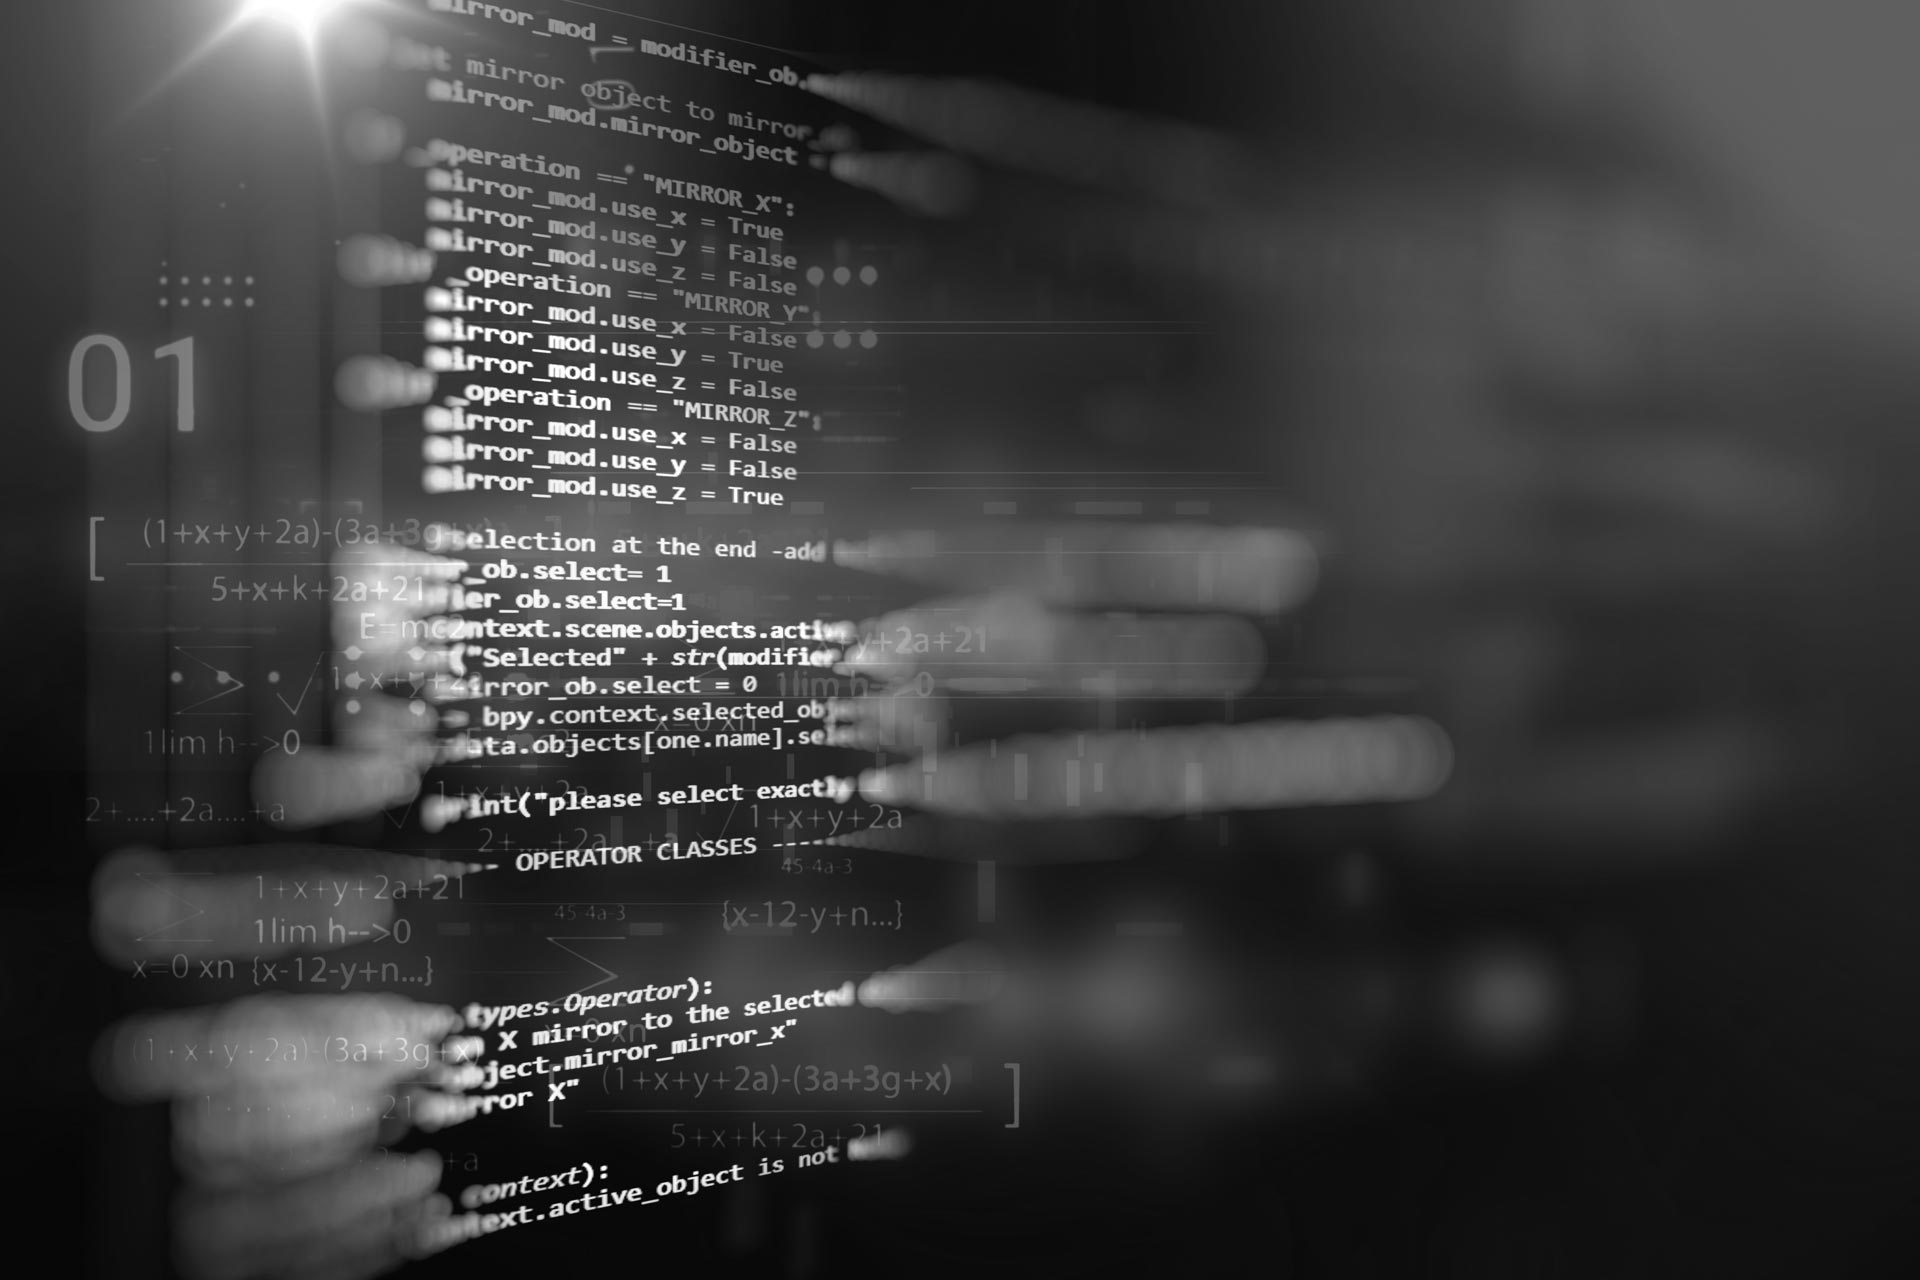
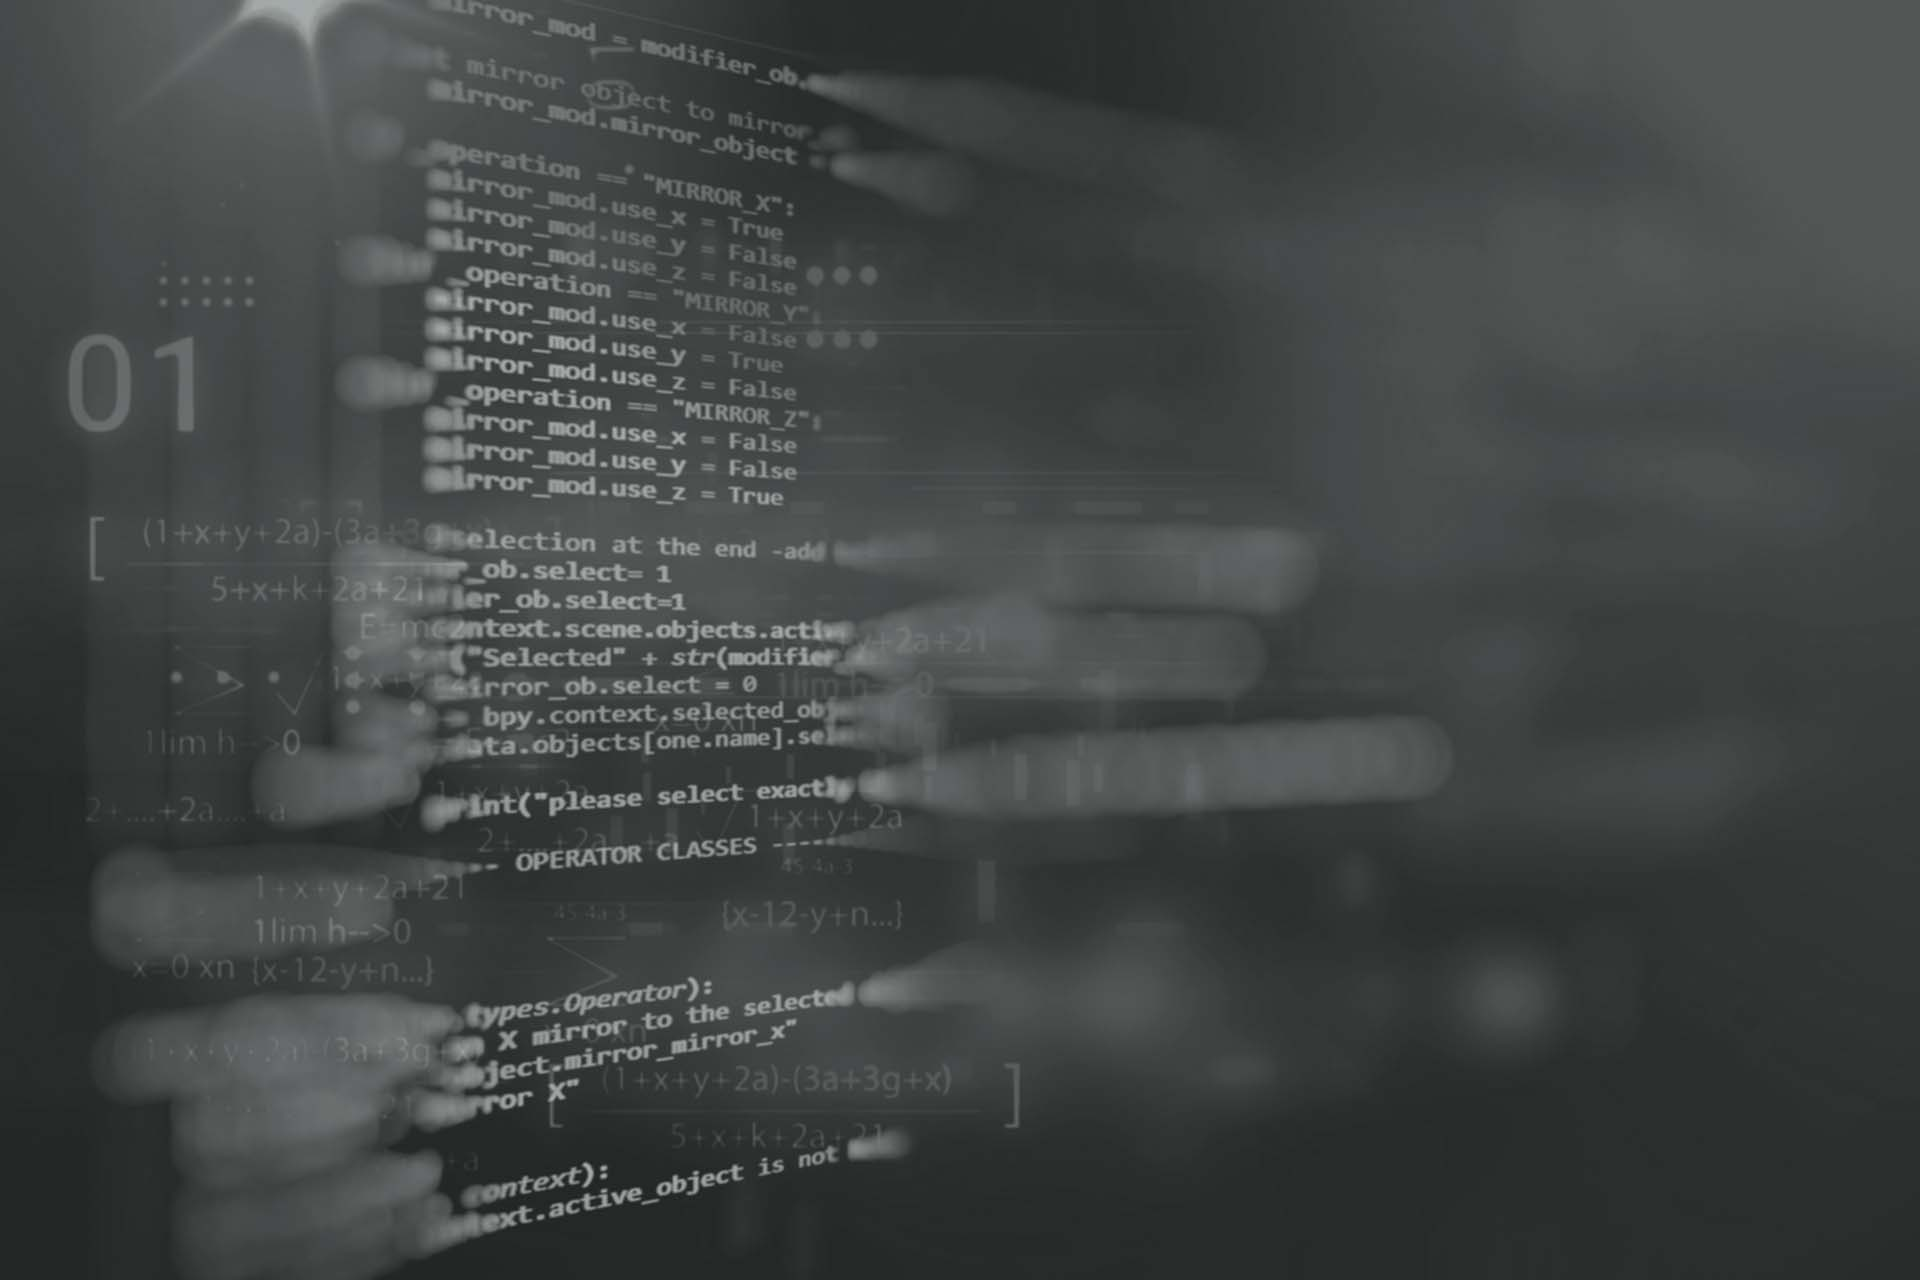
ico, meta, links, final fixes

diff --git a/resources/sass/main.css b/resources/sass/main.css
@@ -24,7 +24,7 @@ header {
   position: sticky;
   top: 0;
   z-index: 5;
-  margin-bottom: 7rem;
+  margin-bottom: 8rem;
 }
 header img {
   width: 100px;
@@ -101,7 +101,7 @@ body {
 }
 
 h1, h2, h3, h4, h5, h6, p {
-  color: hsl(0deg, 0%, 100%);
+  color: hsl(0deg, 0%, 90%);
 }
 
 h1, h2, h3, h4, h5, h6, #subhead {
@@ -110,11 +110,12 @@ h1, h2, h3, h4, h5, h6, #subhead {
 
 h1 {
   font-family: "Ubuntu Condensed", san-serif;
-  font-size: 2.25rem;
-  text-shadow: 3px 3px 2px hsla(0deg, 0%, 0%, 0.5);
+  font-size: 3rem;
+  text-shadow: 4px 4px 4px hsla(0deg, 0%, 0%, 0.7);
   display: block;
   margin: 0 auto;
   width: 90%;
+  color: hsl(0deg, 0%, 100%);
 }
 
 h2 {
@@ -122,15 +123,18 @@ h2 {
   font-size: 1.25rem;
   font-weight: 200;
   margin-bottom: 0.5rem;
+  color: hsl(0deg, 0%, 95%);
 }
 
 h3 {
+  color: hsl(0deg, 0%, 95%);
   font-family: "Ubuntu", san-serif;
   font-size: 1.25rem;
   font-weight: 400;
 }
 
 h4 {
+  color: hsl(0deg, 0%, 95%);
   font-family: "Ubuntu", san-serif;
   font-size: 1.25rem;
   font-weight: 400;
@@ -139,12 +143,13 @@ h4 {
 p {
   font-family: "Open Sans", san-serif;
   font-size: 1rem;
+  color: hsl(0deg, 0%, 90%);
 }
 
 #subhead {
   font-family: "Ubuntu Condensed", san-serif;
   font-size: 18px;
-  text-shadow: 2px 2px hsla(0deg, 0%, 0%, 0.5);
+  text-shadow: 3px 3px 3px hsla(0deg, 0%, 0%, 0.7);
   display: block;
   margin: 0 auto;
   width: 95%;
@@ -259,7 +264,7 @@ p {
 
 .btn {
   width: 5rem;
-  color: hsl(0deg, 0%, 100%);
+  color: hsl(0deg, 0%, 90%);
   text-decoration: none;
   text-align: center;
   padding: 0.5rem;
@@ -291,7 +296,7 @@ p {
   min-height: auto;
   max-height: 90%;
   border: 1px solid hsl(27deg, 91%, 50%);
-  box-shadow: 5px 2px 15px 15px hsla(0deg, 0%, 0%, 0.5);
+  box-shadow: 5px 2px 15px 15px hsla(0deg, 0%, 0%, 0.7);
   overflow-y: scroll;
   z-index: 10;
 }
@@ -307,7 +312,7 @@ p {
   top: 1%;
   color: red;
   font-size: 1.2rem;
-  text-shadow: 3px 3px 2px hsla(0deg, 0%, 0%, 0.5);
+  text-shadow: 3px 3px 2px hsla(0deg, 0%, 0%, 0.7);
 }
 #modal span:hover {
   color: green;
@@ -331,7 +336,7 @@ figure img {
   justify-self: center;
 }
 figure figcaption {
-  color: hsl(0deg, 0%, 100%);
+  color: hsl(0deg, 0%, 90%);
   text-align: center;
   font-size: 0.875rem;
   font-family: "Ubuntu";
@@ -346,7 +351,7 @@ figure aside p {
 }
 
 .fas {
-  color: hsl(0deg, 0%, 100%);
+  color: hsl(0deg, 0%, 90%);
   font-size: 2rem;
   padding: 1rem 0;
   width: 100%;

diff --git a/index.html b/index.html
@@ -4,10 +4,14 @@
     <meta charset="UTF-8">
     <meta http-equiv="X-UA-Compatible" content="IE=edge">
     <meta name="viewport" content="width=device-width, initial-scale=1.0">
+    <meta name="description" content="Ellias - freelance web developer">
+    <meta name="keywords" content="Web developer, freelance web developer, front-end web developer, full-stack web developer, web design, web designer, HTML, CSS, JavaScript, Bootstrap, Sass, Node.JS">
+    <meta name="author" content="Ellias.dev">
     <link href="resources/sass/main.css" rel="stylesheet" type="text/css">
     <!-- font-awesome  -->
     <script src="https://kit.fontawesome.com/6350c6b9dc.js" crossorigin="anonymous"></script>
-    <title>ELLIAS - the Web Developer</title>
+    <title>ELLIAS - Web Developer</title>
+    <link rel="icon" type="image/x-icon" href="/resources/pics/ellias-favicon.png">
 </head>
 <body>
     <header class="flex flex-ai-c flex-jc-sb">
@@ -158,11 +162,11 @@
             </div>
             <div>
                 <ul>
-                    <li><a href="#"><i class="fab fa-fonticons-fi"></i> Fiverr</a></li>
-                    <li><a href="#"><i class="fa-brands fa-github"></i> Github</a></li>
-                    <li><a href="#"><i class="fa-brands fa-twitter"></i> Twitter</a></li>
-                    <li><a href="#"><i class="fa-brands fa-instagram"></i> Instagram</a></li>
-                    <li><a href="#"><i class="fa-brands fa-facebook-f"></i> Facebook</a></li>
+                    <li><a href="https://www.fiverr.com/qcluster" target="_blank"><i class="fab fa-fonticons-fi"></i> Fiverr</a></li>
+                    <li><a href="https://github.com/ellias-dev" target="_blank"><i class="fa-brands fa-github"></i> Github</a></li>
+                    <li><a href="https://twitter.com/elliasdev" target="_blank"><i class="fa-brands fa-twitter"></i> Twitter</a></li>
+                    <li><a href="https://instagram.com/ellias.dev/" target="_blank"><i class="fa-brands fa-instagram"></i> Instagram</a></li>
+                    <!-- <li><a href="#"><i class="fa-brands fa-facebook-f"></i> Facebook</a></li> -->
                 </ul>
             </div>
         </div>

diff --git a/resources/sass/pages/_page.scss b/resources/sass/pages/_page.scss
@@ -15,12 +15,13 @@ h1, h2, h3, h4, h5, h6, #subhead {
 h1 {
     font : {
         family: 'Ubuntu Condensed', san-serif;
-        size: 2.25rem;
+        size: 3rem;
     }
-    text-shadow: 3px 3px 2px $shadow;
+    text-shadow: 4px 4px 4px $shadow;
     display: block;
     margin: 0 auto;
     width: 90%;
+    color: hsla(0, 0%, 100%, 1);
     
 }
 h2 {
@@ -30,15 +31,20 @@ h2 {
         weight: 200;
     } 
     margin-bottom: 0.5rem;
+    color: $headcolor;
 }
 h3 {
+    color: $headcolor;
     font : {
         family: 'Ubuntu', san-serif;
         size: $h24;
         weight: 400;
+    
     }
 }
+
 h4 {
+    color: $headcolor;
     font : {
         family: 'Ubuntu', san-serif;
         size: $h24;
@@ -50,6 +56,7 @@ p {
         family: 'Open Sans', san-serif;
         size: $p;
     }
+    color: $color;
 }
 
 #subhead {
@@ -57,10 +64,11 @@ p {
         family: 'Ubuntu Condensed', san-serif;
         size: 18px;
     }
-    text-shadow: 2px 2px $shadow;
+    text-shadow: 3px 3px 3px $shadow;
     display: block;
     margin: 0 auto;
     width: 95%;
+
 }
 
 

diff --git a/resources/sass/helpers/_variables.scss b/resources/sass/helpers/_variables.scss
@@ -8,10 +8,11 @@ $amount: 0.25;
 $menucovercolor: fade-out($menucolor, $amount);
 
 //font color - base
-$color: hsla(0, 0%, 100%, 1);
+$headcolor: hsla(0, 0%, 95%, 1);
+$color: hsla(0, 0%, 90%, 1);
 
 //for drop-shadows
-$shadow: hsla(0, 0%, 0%, 0.5);
+$shadow: hsla(0, 0%, 0%, 0.7);
 
 //border
 $border-color: hsla(0, 0%, 100%, 1);

diff --git a/resources/sass/layout/_header.scss b/resources/sass/layout/_header.scss
@@ -4,7 +4,7 @@ header {
     position: sticky;
     top: 0;
     z-index: 5;
-    margin-bottom: 7rem;
+    margin-bottom: 8rem;
     img {
         width:100px;
         margin-left: 1rem;
